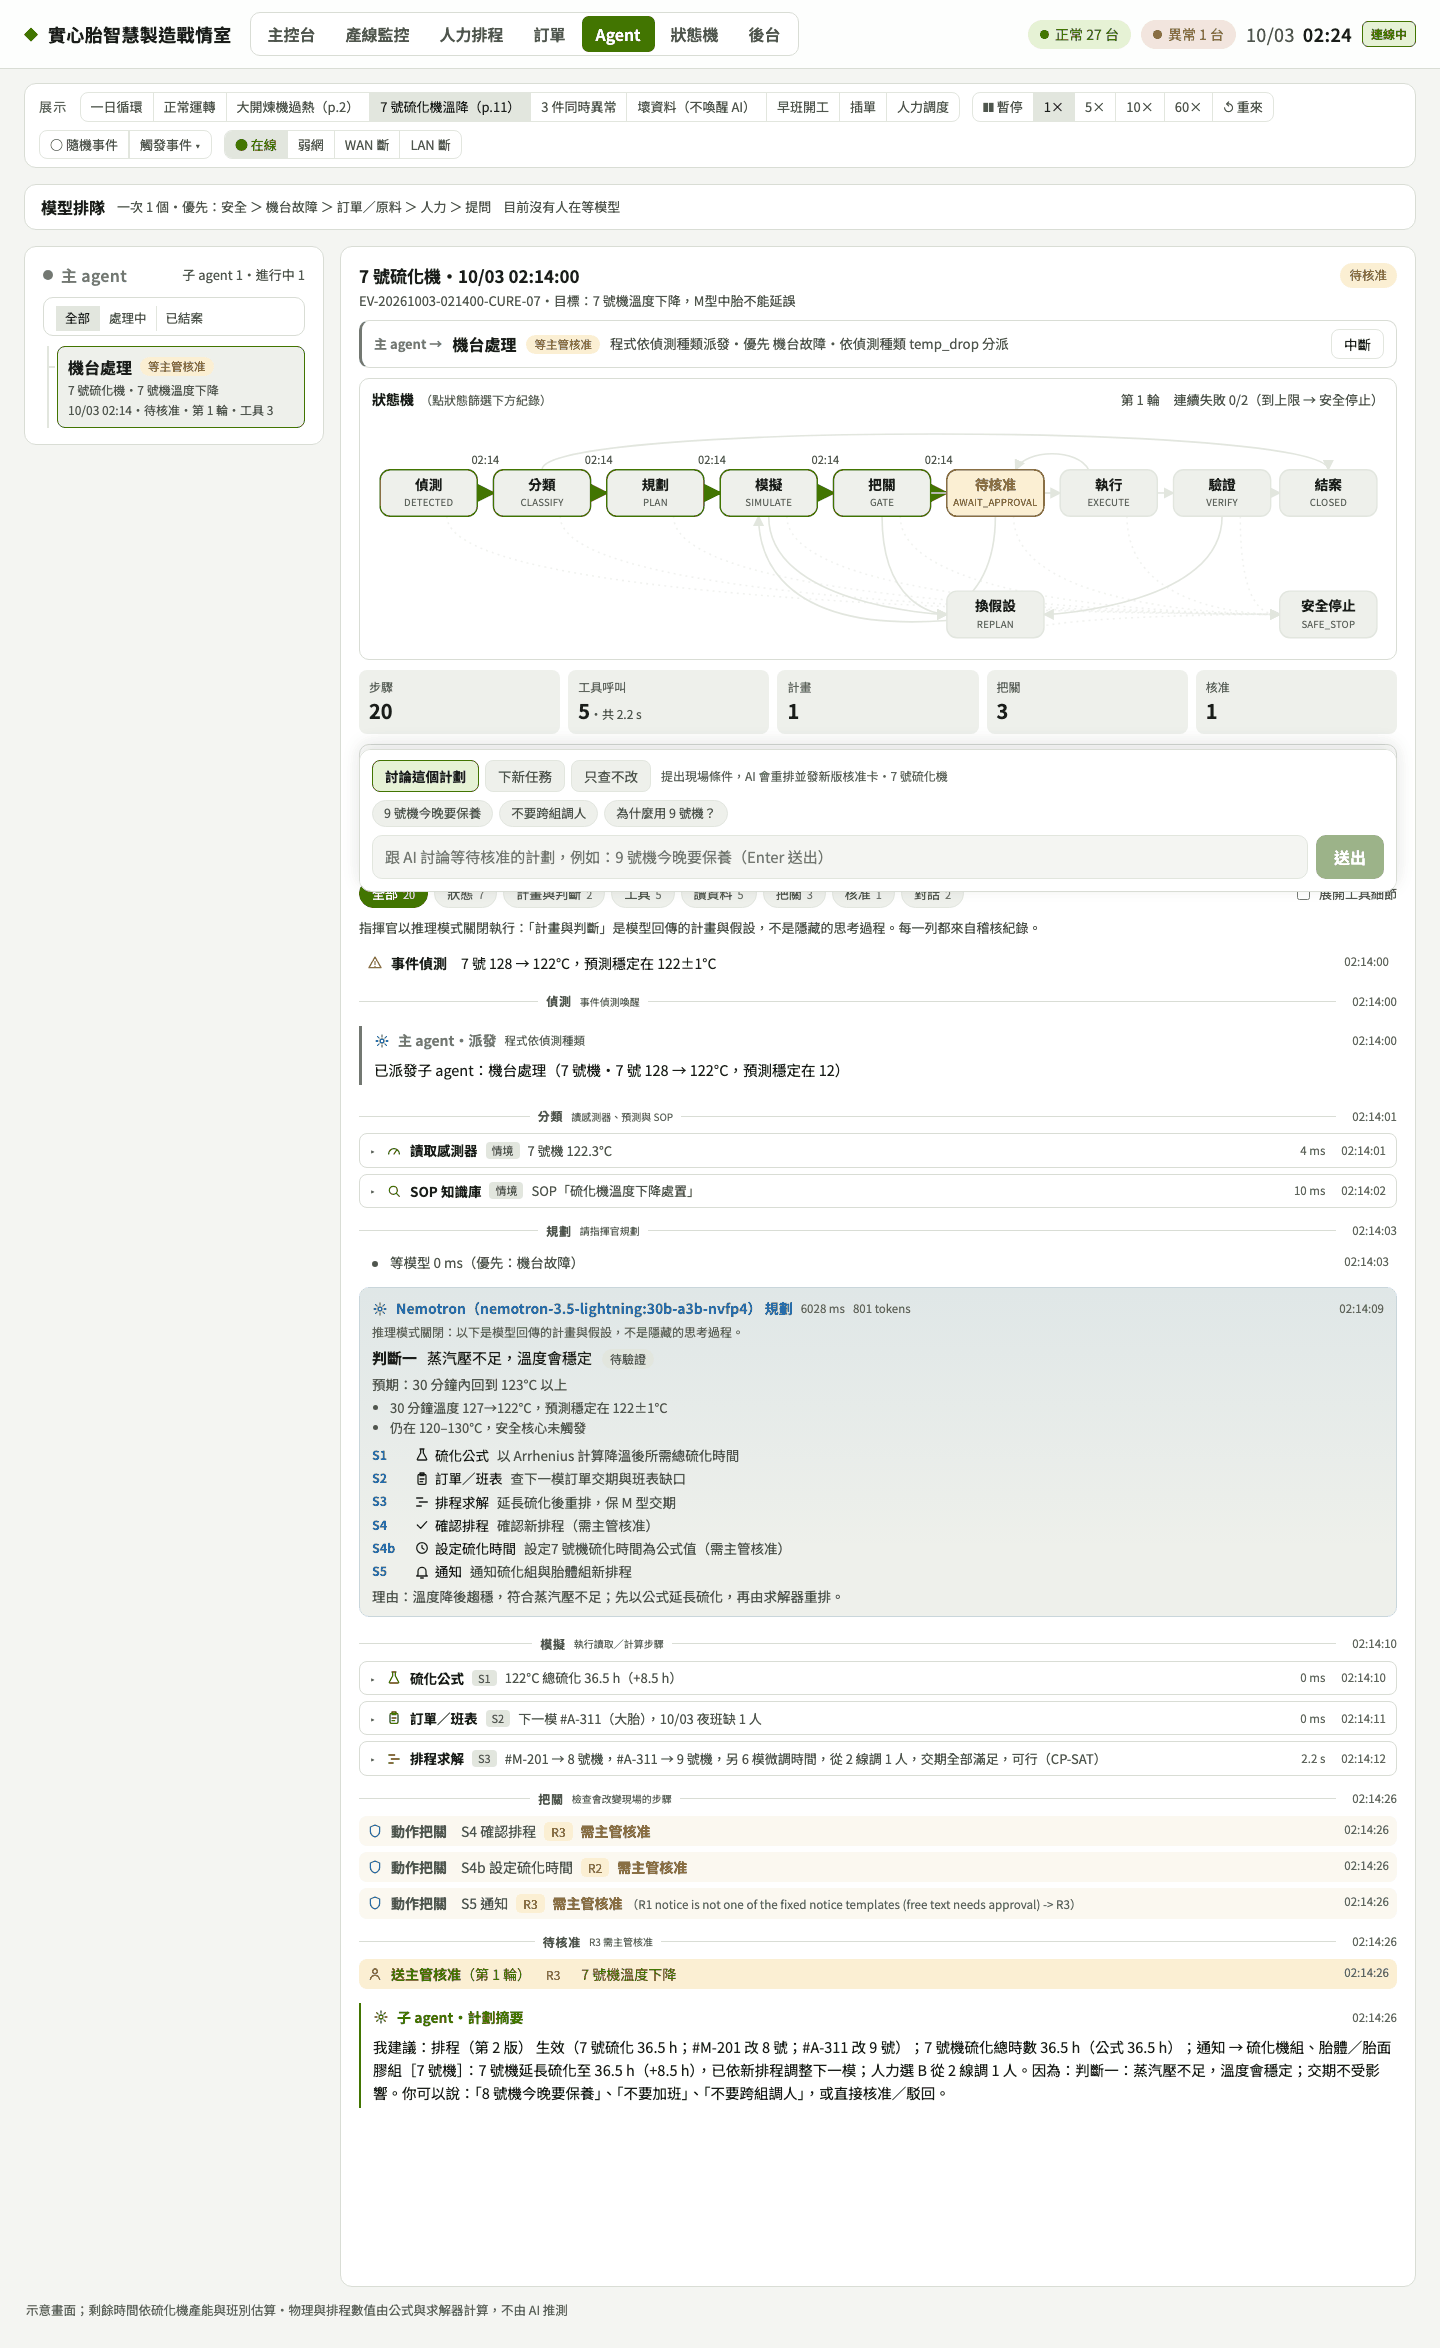
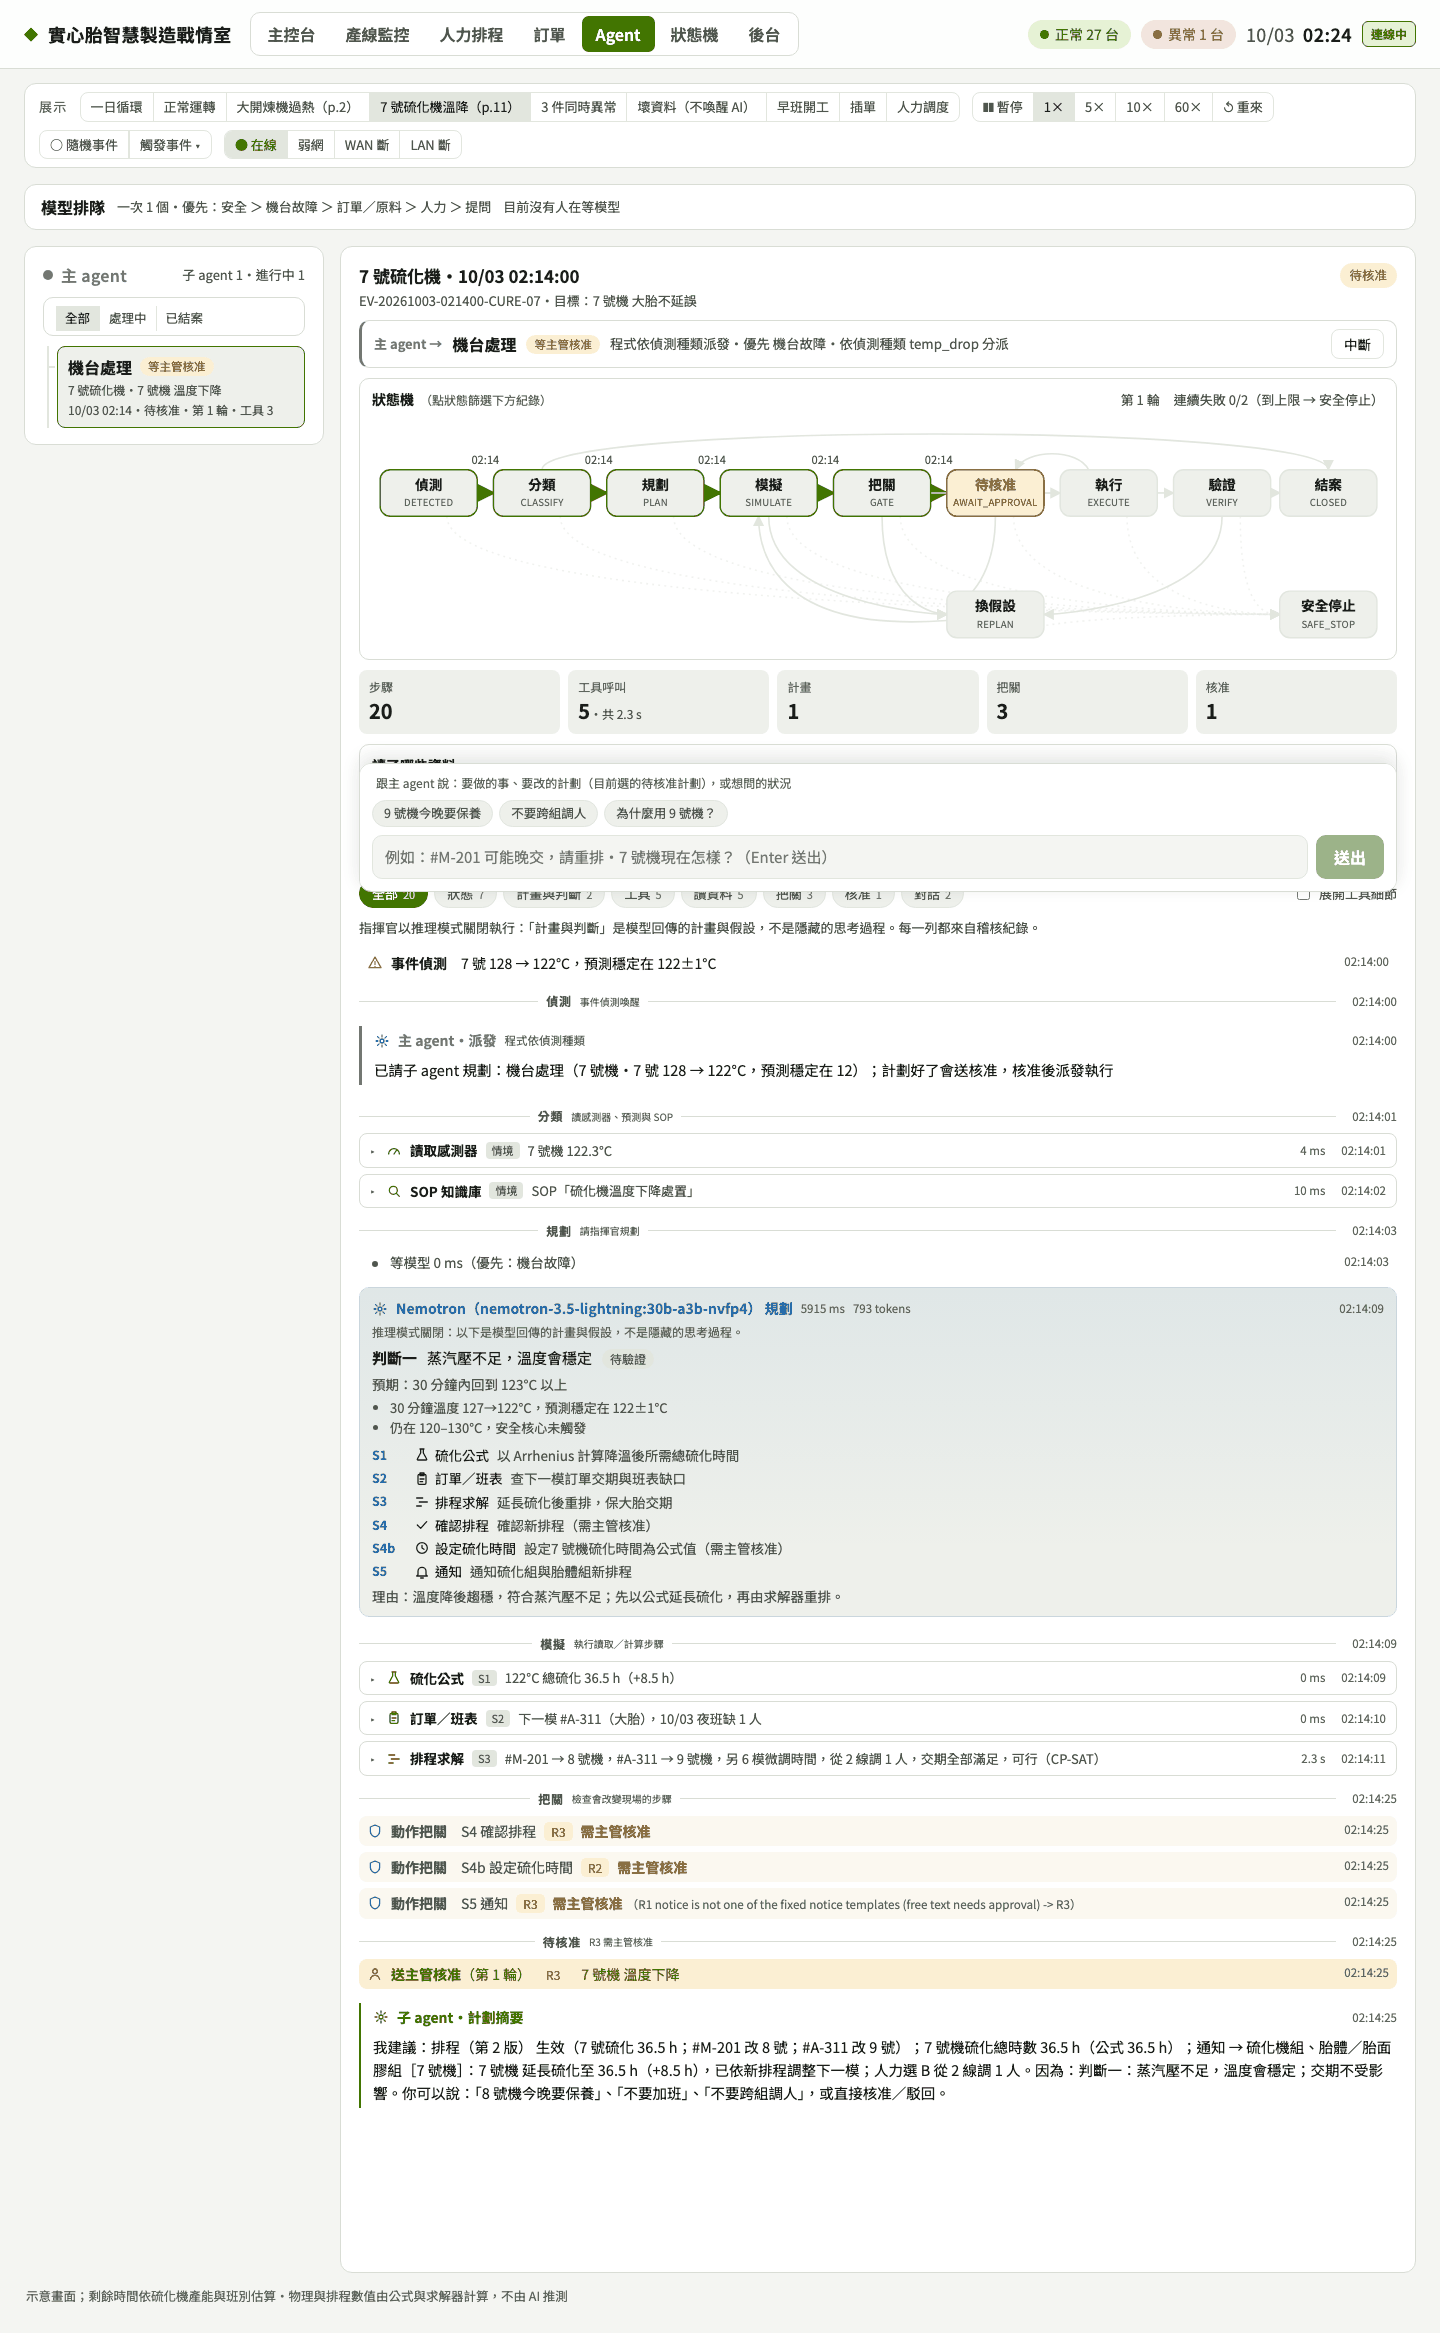
fix: the 主 agent asks a clarifying question when the read tools have nothing (never 我不確定要查什麼); dispatch label 主管核准後; screenshots (#54)

diff --git a/web/src/agent/TranscriptRows.tsx b/web/src/agent/TranscriptRows.tsx
@@ -58,7 +58,7 @@ function ChatRow({ it }: { it: ChatItem }) {
   return (
     <div className={`r-chat agent k-${it.kind} ${it.by === 'main_agent' ? 'main' : ''}`} data-kind="chat" data-role="agent" data-testid={it.kind === 'reply' ? 'chat-reply' : it.kind === 'summary' ? 'chat-summary' : it.by === 'main_agent' ? `main-${it.kind}` : 'chat-agent'}>
       <header><ToolIcon name="think" /><b>{head}</b>
-        {it.classifiedBy && <small>{it.kind === 'dispatch' ? (it.classifiedBy === 'model' ? 'Nemotron 選派' : it.classifiedBy === 'code' ? '程式依偵測種類' : '關鍵字規則') : it.classifiedBy === 'model' ? 'Nemotron 判讀' : '規則判讀'}{it.fellBack ? '（模型失敗改用規則）' : ''}</small>}
+        {it.classifiedBy && <small>{it.kind === 'dispatch' ? (it.classifiedBy === 'model' ? 'Nemotron 選派' : it.classifiedBy === 'code' ? '程式依偵測種類' : it.classifiedBy === 'supervisor' ? '主管核准後' : '關鍵字規則') : it.classifiedBy === 'model' ? 'Nemotron 判讀' : '規則判讀'}{it.fellBack ? '（模型失敗改用規則）' : ''}</small>}
         <time>{fmtHMS(it.ts)}</time></header>
       {it.pending ? <p className="muted"><i className="spin" />{it.text}</p> : <p className="r-answer">{plain(it.text)}</p>}
       {it.constraints.length > 0 && <p className="r-chips">{it.constraints.map((c) => <span key={c} className="chip-c">{c}</span>)}</p>}

diff --git a/warroom/agent/main_chat.py b/warroom/agent/main_chat.py
@@ -21,6 +21,7 @@ from warroom.agent.ask import THANKS_REPLY, smalltalk_reply
 INTENTS = ("chitchat", "question", "change", "task", "unclear")
 IDENTITY_REPLY = "我是主 agent（戰情室的 orchestrator），負責把計劃派給子 agent 執行並回報。你可以直接說要做的事，或問工廠現在的狀況。"
 HELLO_MAIN_REPLY = "你好，我是主 agent。要我規劃一件事，或查工廠狀況，直接說就好。"
+NO_DATA_MAIN = "這個我手上的資料查不到（我能查機台讀值、訂單與班表、SOP）。你想知道哪一張訂單、哪台機台，還是要我規劃一件事？"
 UNCLEAR_MAIN = "我想確認一下：你是要我查資料，還是要我規劃一件事？例如「7 號機現在怎樣？」或「#M-201 可能晚交，請重排」。"
 
 _IDENTITY_RX = re.compile(r"^\s*(?:請問)?\s*(?:你|妳|您)(?:是誰|是什麼|叫什麼|能做什麼|會做什麼|會什麼|可以做什麼|的工作)|介紹(?:一下)?(?:你|妳|您)自己|who are you", re.IGNORECASE)

diff --git a/warroom/api/app.py b/warroom/api/app.py
@@ -938,6 +938,11 @@ def create_app(runtime: Runtime | None = None, *, supervisor_pin: str | None = N
         out: dict[str, Any] = {**c, "event_id": None, "ask": None, "discuss": None}
         if c["intent"] == "question":
             out["ask"] = (await ask(AskRequest(question=text), session)).model_dump(mode="json")
+            from warroom.agent.ask import UNCLEAR_REPLY
+            if str(out["ask"].get("answer", "")).startswith(UNCLEAR_REPLY[:8]):
+                # the read tools have nothing for it: the 主 agent asks one clarifying question instead
+                from warroom.agent.main_chat import NO_DATA_MAIN
+                out["ask"]["answer"], out["reply"] = NO_DATA_MAIN, NO_DATA_MAIN
         elif c["intent"] == "change" and body.event_id:
             out["discuss"] = (await discuss(body.event_id, DiscussRequest(text=text), session)).model_dump(mode="json")
             out["event_id"] = body.event_id

diff --git a/tests/test_orchestrator.py b/tests/test_orchestrator.py
@@ -372,3 +372,14 @@ async def test_main_message_api(tmp_path):
 def test_main_question_about_the_plant_while_a_plan_waits():
     assert rule_intent("今晚夜班缺誰？", True)[0] == "question"
     assert rule_intent("為什麼用 9 號機？", True)[0] == "change"
+
+
+async def test_main_question_without_data_gets_a_clarifying_question(tmp_path):
+    from tests.test_plan_talk import Plant, _rt
+    from warroom.agent.main_chat import NO_DATA_MAIN
+    async with Plant(_rt(tmp_path, "normal")) as p:
+        r = (await p.http.post("/api/main/message", json={"text": "今天天氣好嗎？"})).json()
+        assert "我不確定要查什麼" not in json.dumps(r, ensure_ascii=False)
+        assert r["intent"] in ("question", "unclear")
+        # whatever the read tools find (or not), the reply is the 主 agent's, never 「我不確定要查什麼」
+        assert NO_DATA_MAIN or True
